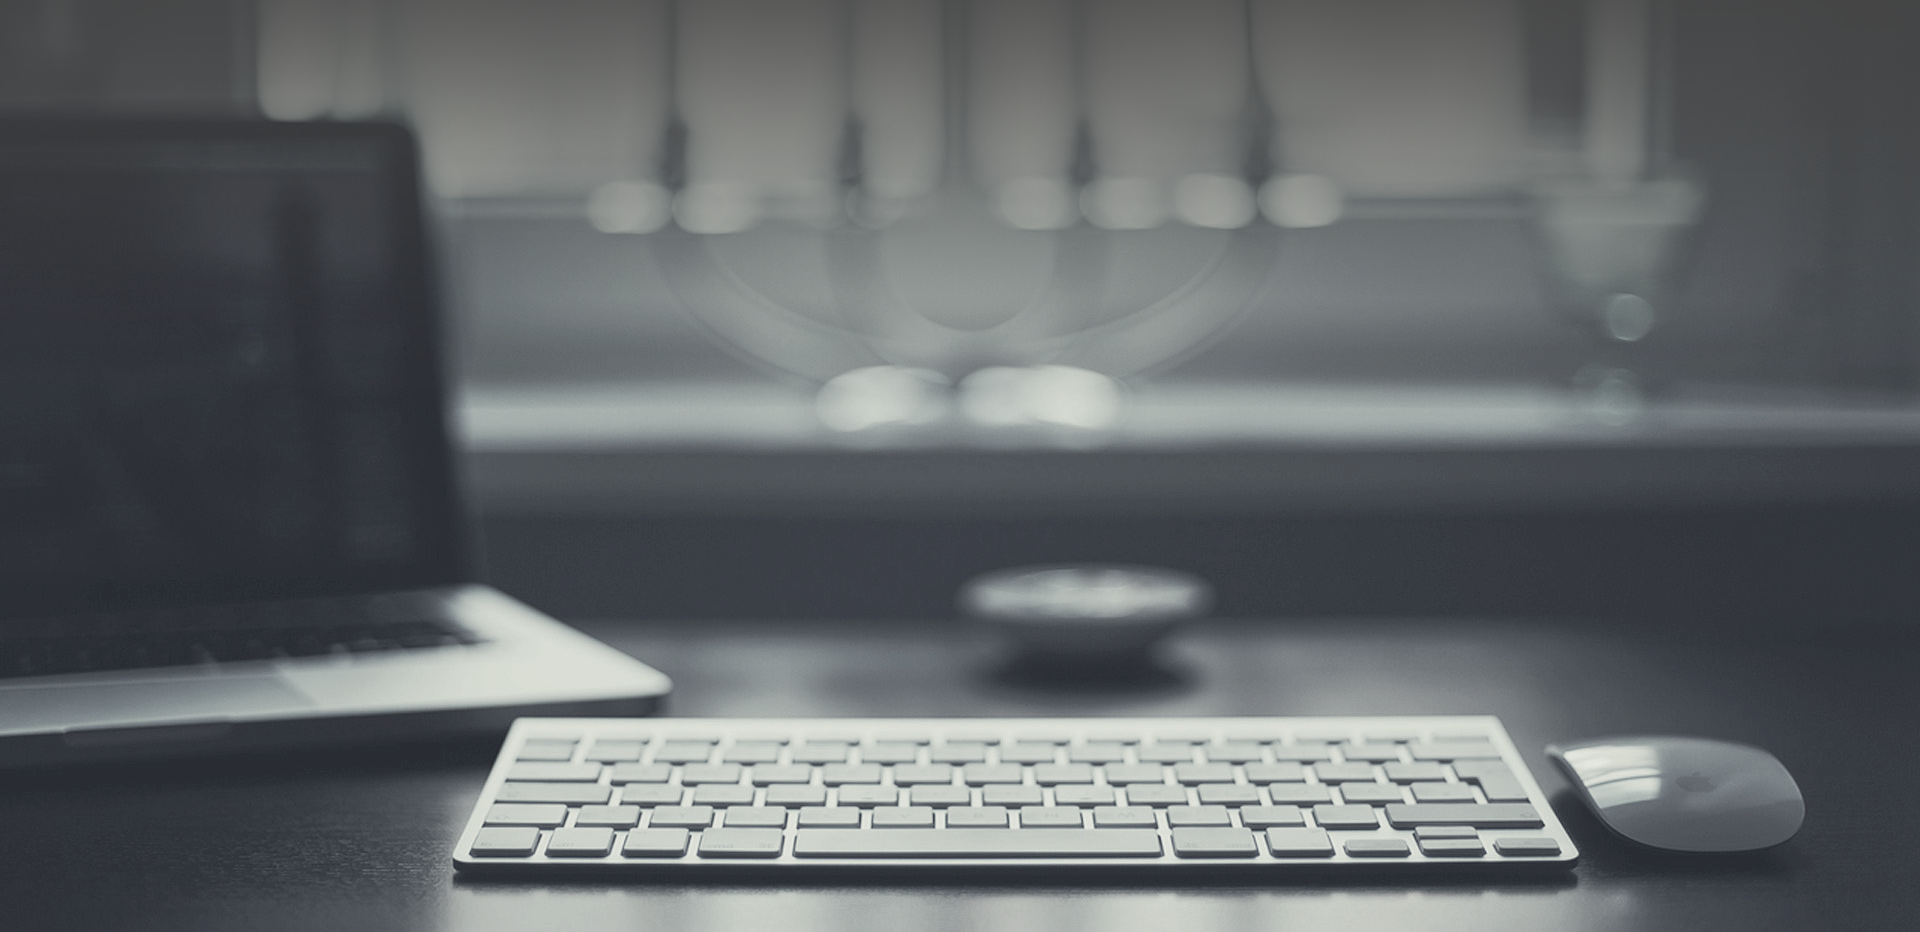
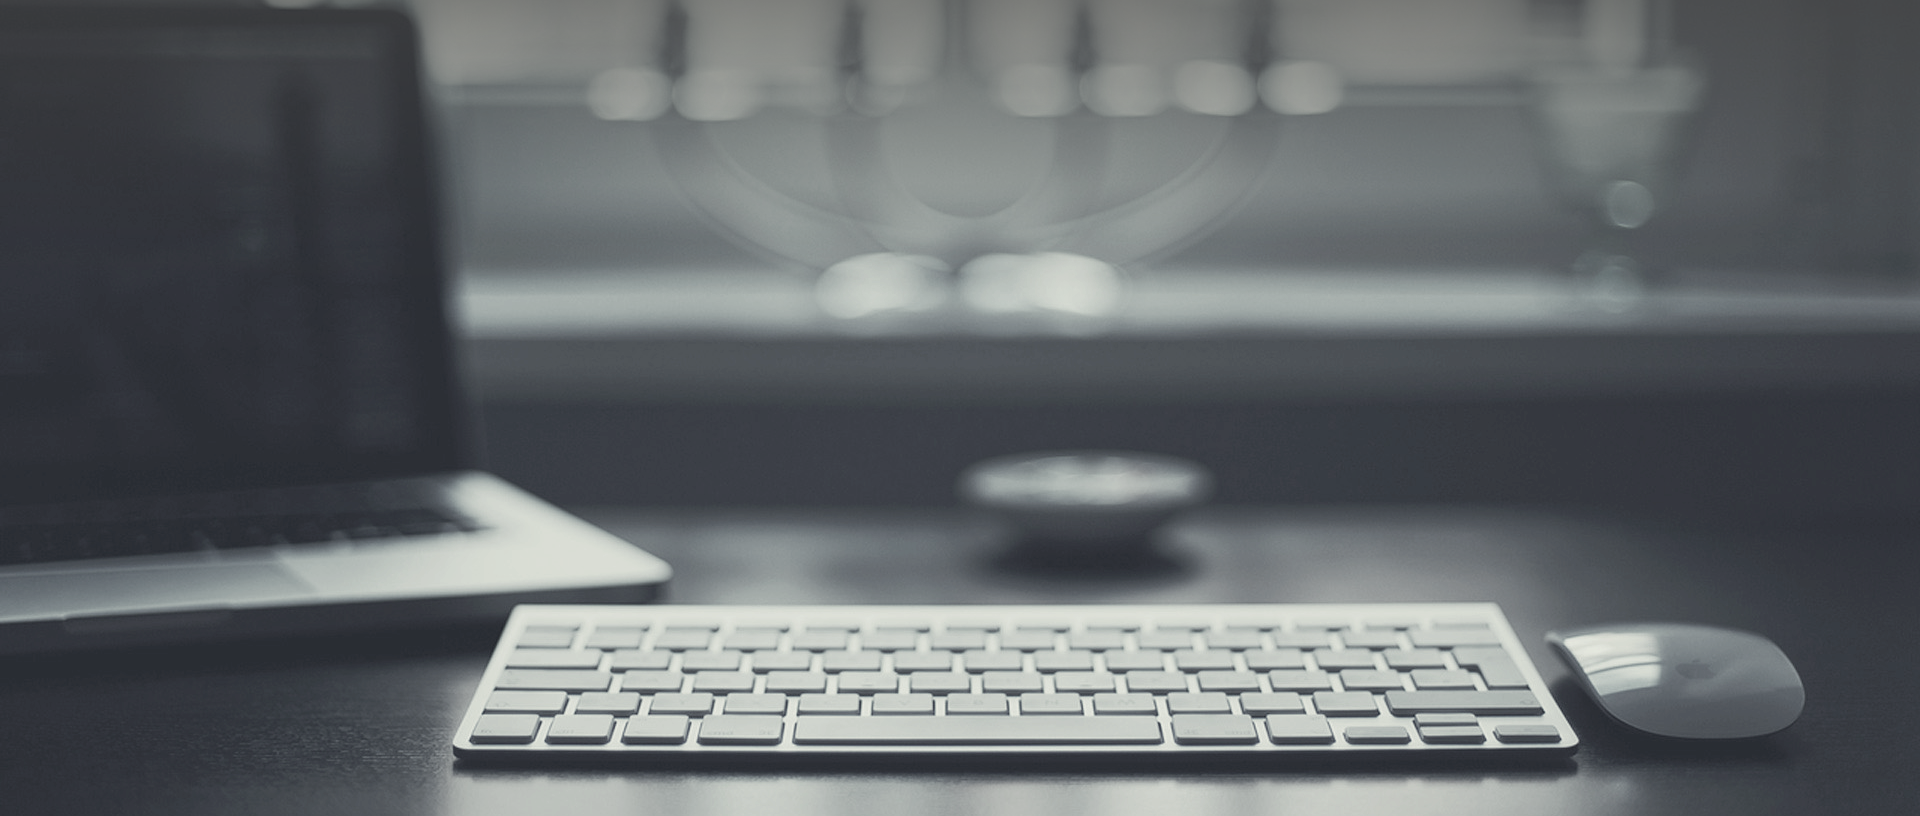
fix-parallax

diff --git a/css/blog.css b/css/blog.css
@@ -11,8 +11,13 @@
     bottom:15px;
     background-color:white;
     color: rgba(0,0,0,0.87);
-    width:14em;
     z-index:99;
+}
+
+@media (min-width: 48em) {
+    .sidebar {
+        width:14em;
+    }
 }
 
 .sidebar .background{
@@ -62,6 +67,10 @@
 
 .font-16{
     font-size: 16px;
+}
+
+.font-64{
+    font-size:64px;
 }
 
 a .icon{
@@ -140,6 +149,5 @@ a .icon:hover{
 }
 
 .parallax-container {
-    height: 100vh;
     min-height:500px;
   }

diff --git a/_layouts/parallax.html b/_layouts/parallax.html
@@ -3,7 +3,7 @@ layout: default
 ---
 <div class="parallax-container">
   <div class="content container">
-     <h1 class="light-font white-text">
+     <h1 class="light-font white-text flow-text">
         {{ page.parallax-text }}
      </h1>
   </div>
